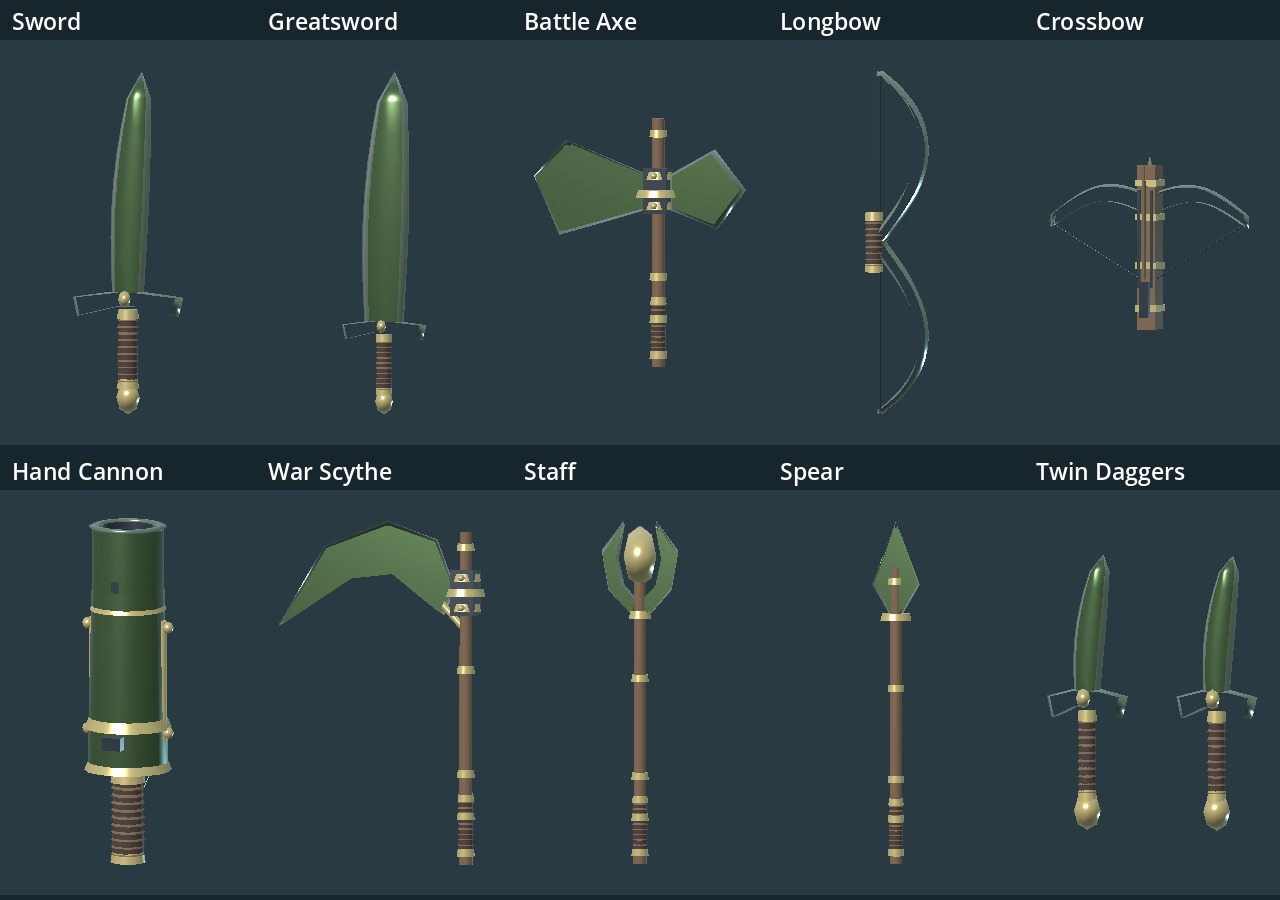
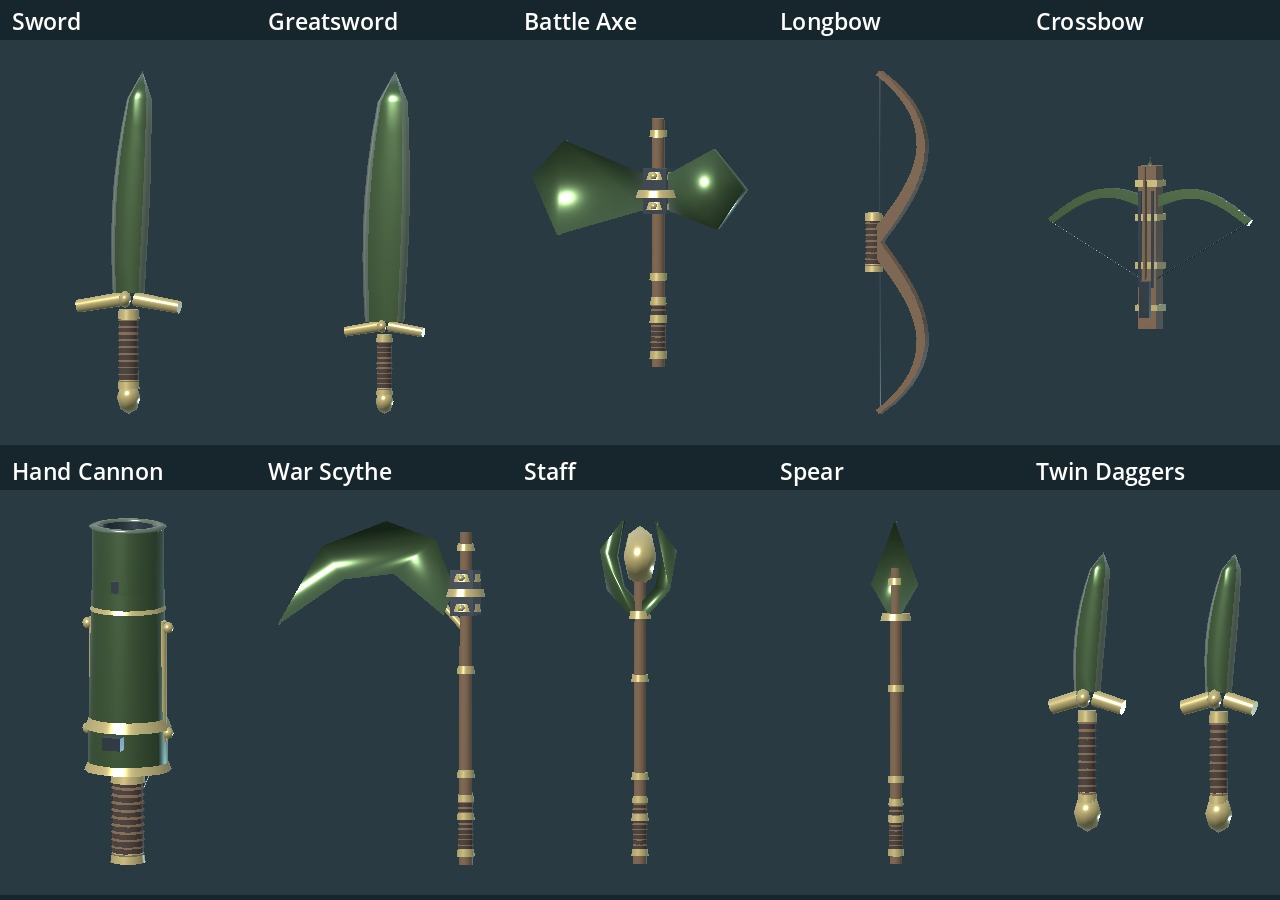
Keep ranged limbs solid at oblique angles and finalize weapon previews

diff --git a/docs/WEAPON_QUALITY.md b/docs/WEAPON_QUALITY.md
@@ -8,11 +8,11 @@ system or a claim of 200 individually sculpted assets.
 - Sword, greatsword and dagger blades have raised central ridges, tapered edges,
   shaped guards and fitted pommels. Regional motifs change blade width profiles;
   regional curves, widths and palettes remain data-driven.
-- Axes/scythes have bevelled cutting surfaces, eye sockets, collars, fasteners and
+- Axes/scythes have shaped cutting surfaces, eye sockets, collars, fasteners and
   a scythe brace. Generic floating crest ornaments are removed.
-- Bows and crossbows use tapered continuous limbs; bows have a straight taut
+- Bows and crossbows use tapered solid limbs; bows have a straight taut
   string. Crossbows add guide rails, a bolt and trigger fittings.
-- Staves have shaped prongs surrounding a faceted focus. Spears have bevelled
+- Staves have shaped prongs surrounding a faceted focus. Spears have shaped
   heads. Shafts use dark wrapped grips with metal end collars.
 - Cannons have an open outer barrel, inward-facing bore, muzzle ring, sights,
   rails and trigger fittings. The native uncapped CylinderMesh avoids the
@@ -26,6 +26,9 @@ system or a claim of 200 individually sculpted assets.
   Battle motion remains the existing simple attack tween, not full authored
   two-handed/ranged combat animation. Twin daggers remain one paired display
   assembly; independent dual-hand animation is future work.
+
+Narrow ranged limbs use overlapping native solid segments to avoid disappearing
+polygon faces at oblique viewing angles.
 
 Source: game/scripts/weapon_model.gd. Original code-authored art; no paid assets,
 provider generation, texture downloads or modified character GLBs. Native Godot

diff --git a/docs/DESIGN.md b/docs/DESIGN.md
@@ -84,7 +84,7 @@ mechanical variety remain open. See CONTENT_EXPANSION.md for exact scope.
 ## Weapon quality — 0.22.0
 
 The existing equipment catalog receives a visual refinement pass: ridged and
-bevelled blades, wrapped grips, fitted joints, continuous ranged limbs, open
+shaped blades, wrapped grips, fitted joints, solid ranged limbs, open
 cannon bores, material batching, bounds-framed previews and native wrist mounts.
 Recipes, IDs and stats are preserved. See WEAPON_QUALITY.md for scope and the
 remaining dual-hand/full-animation limitations.
